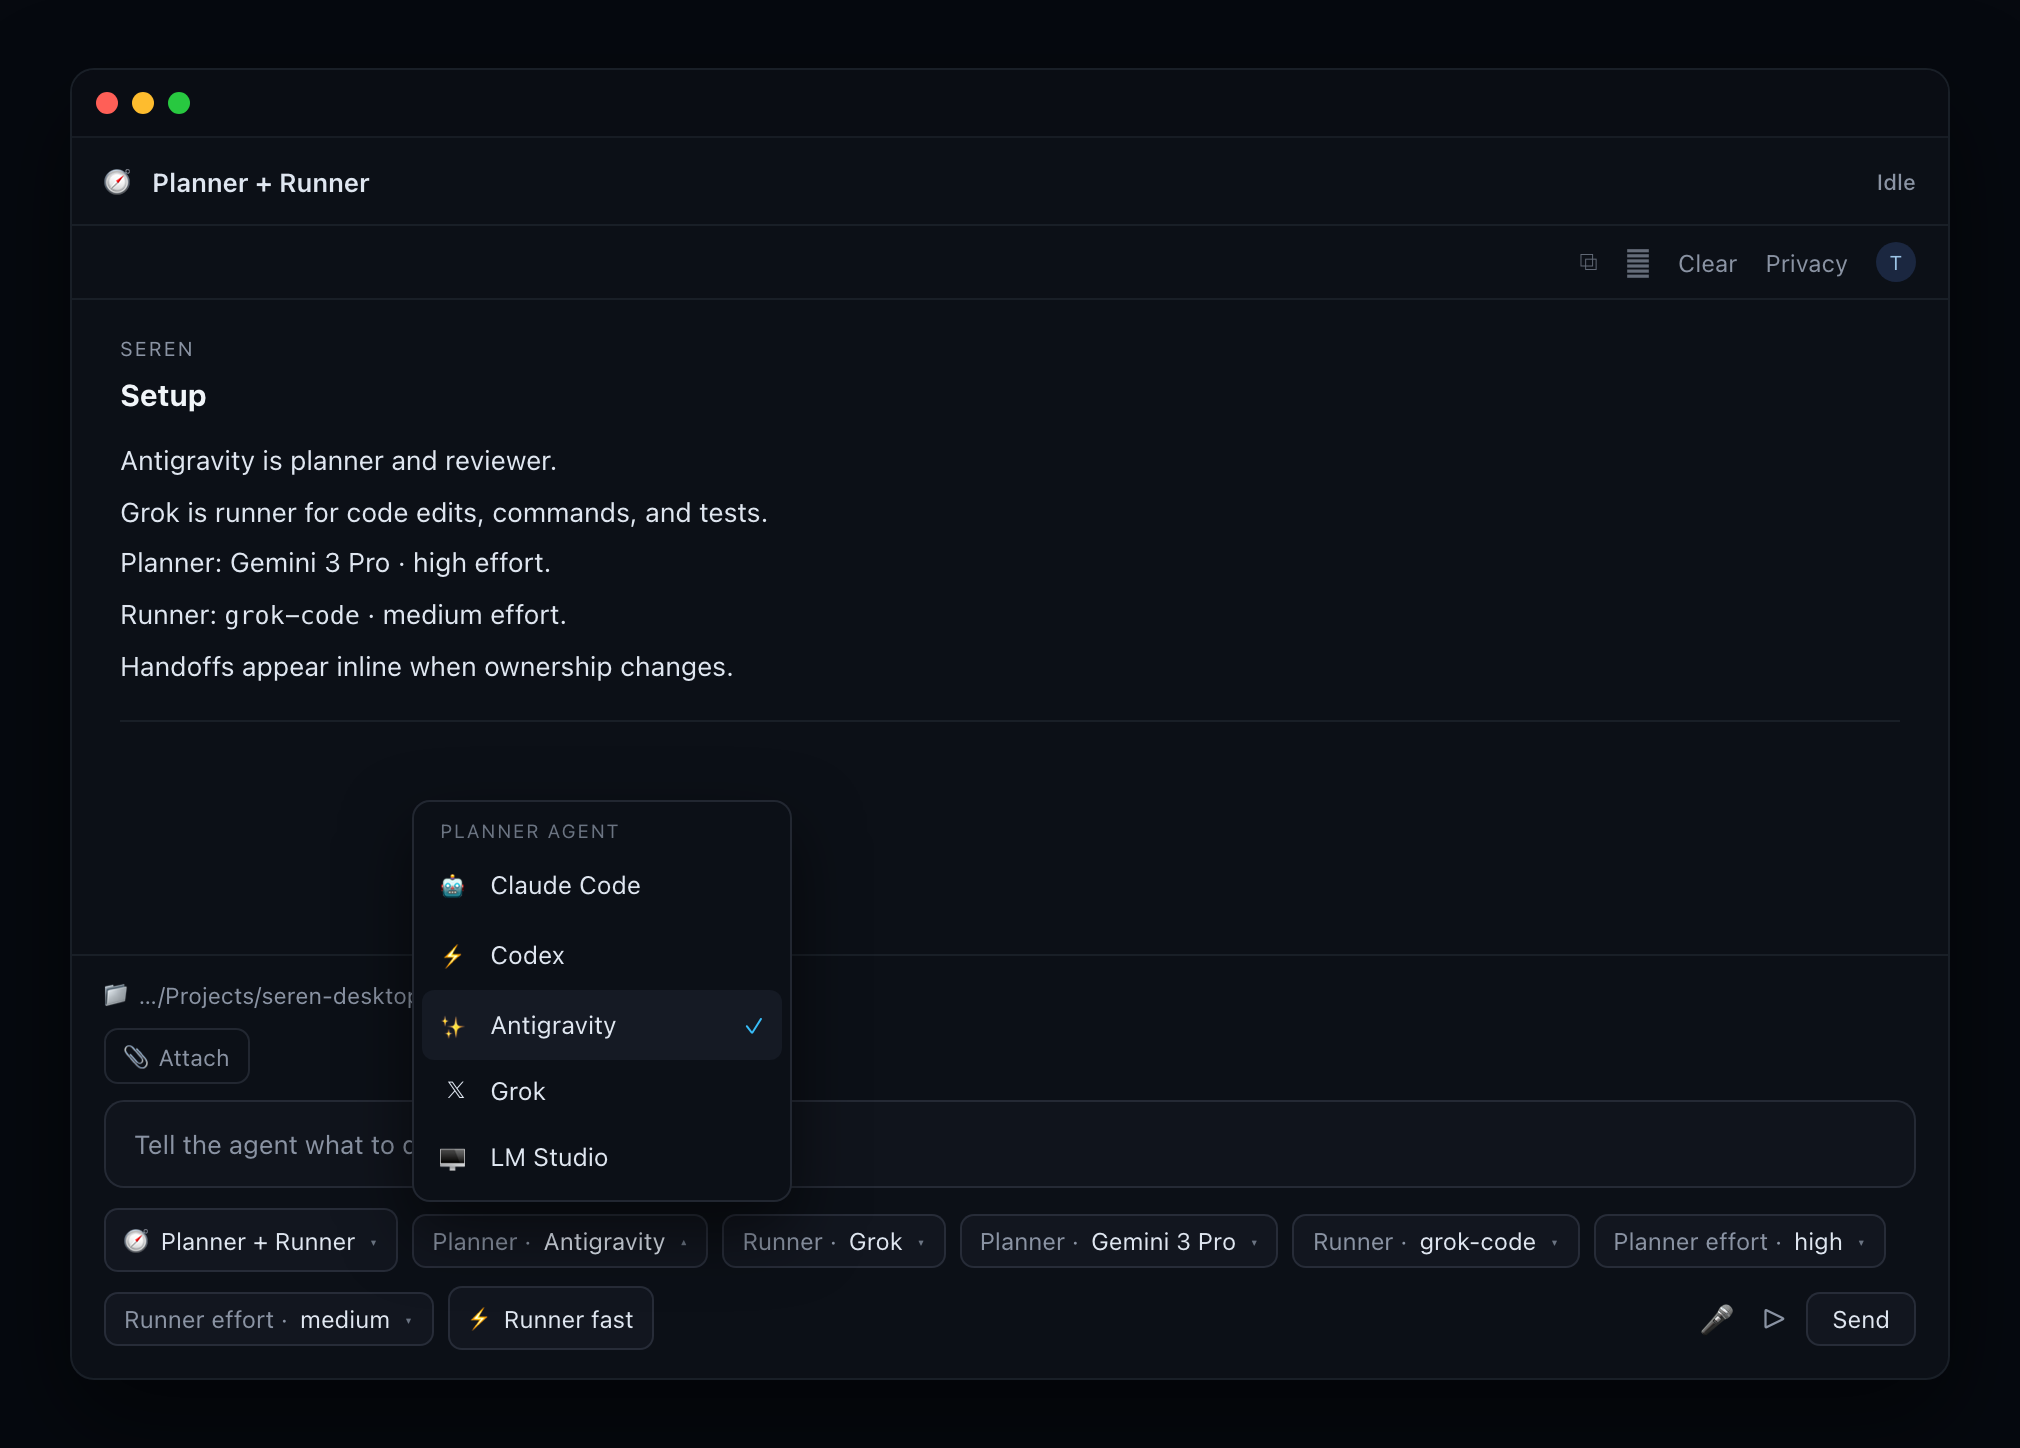
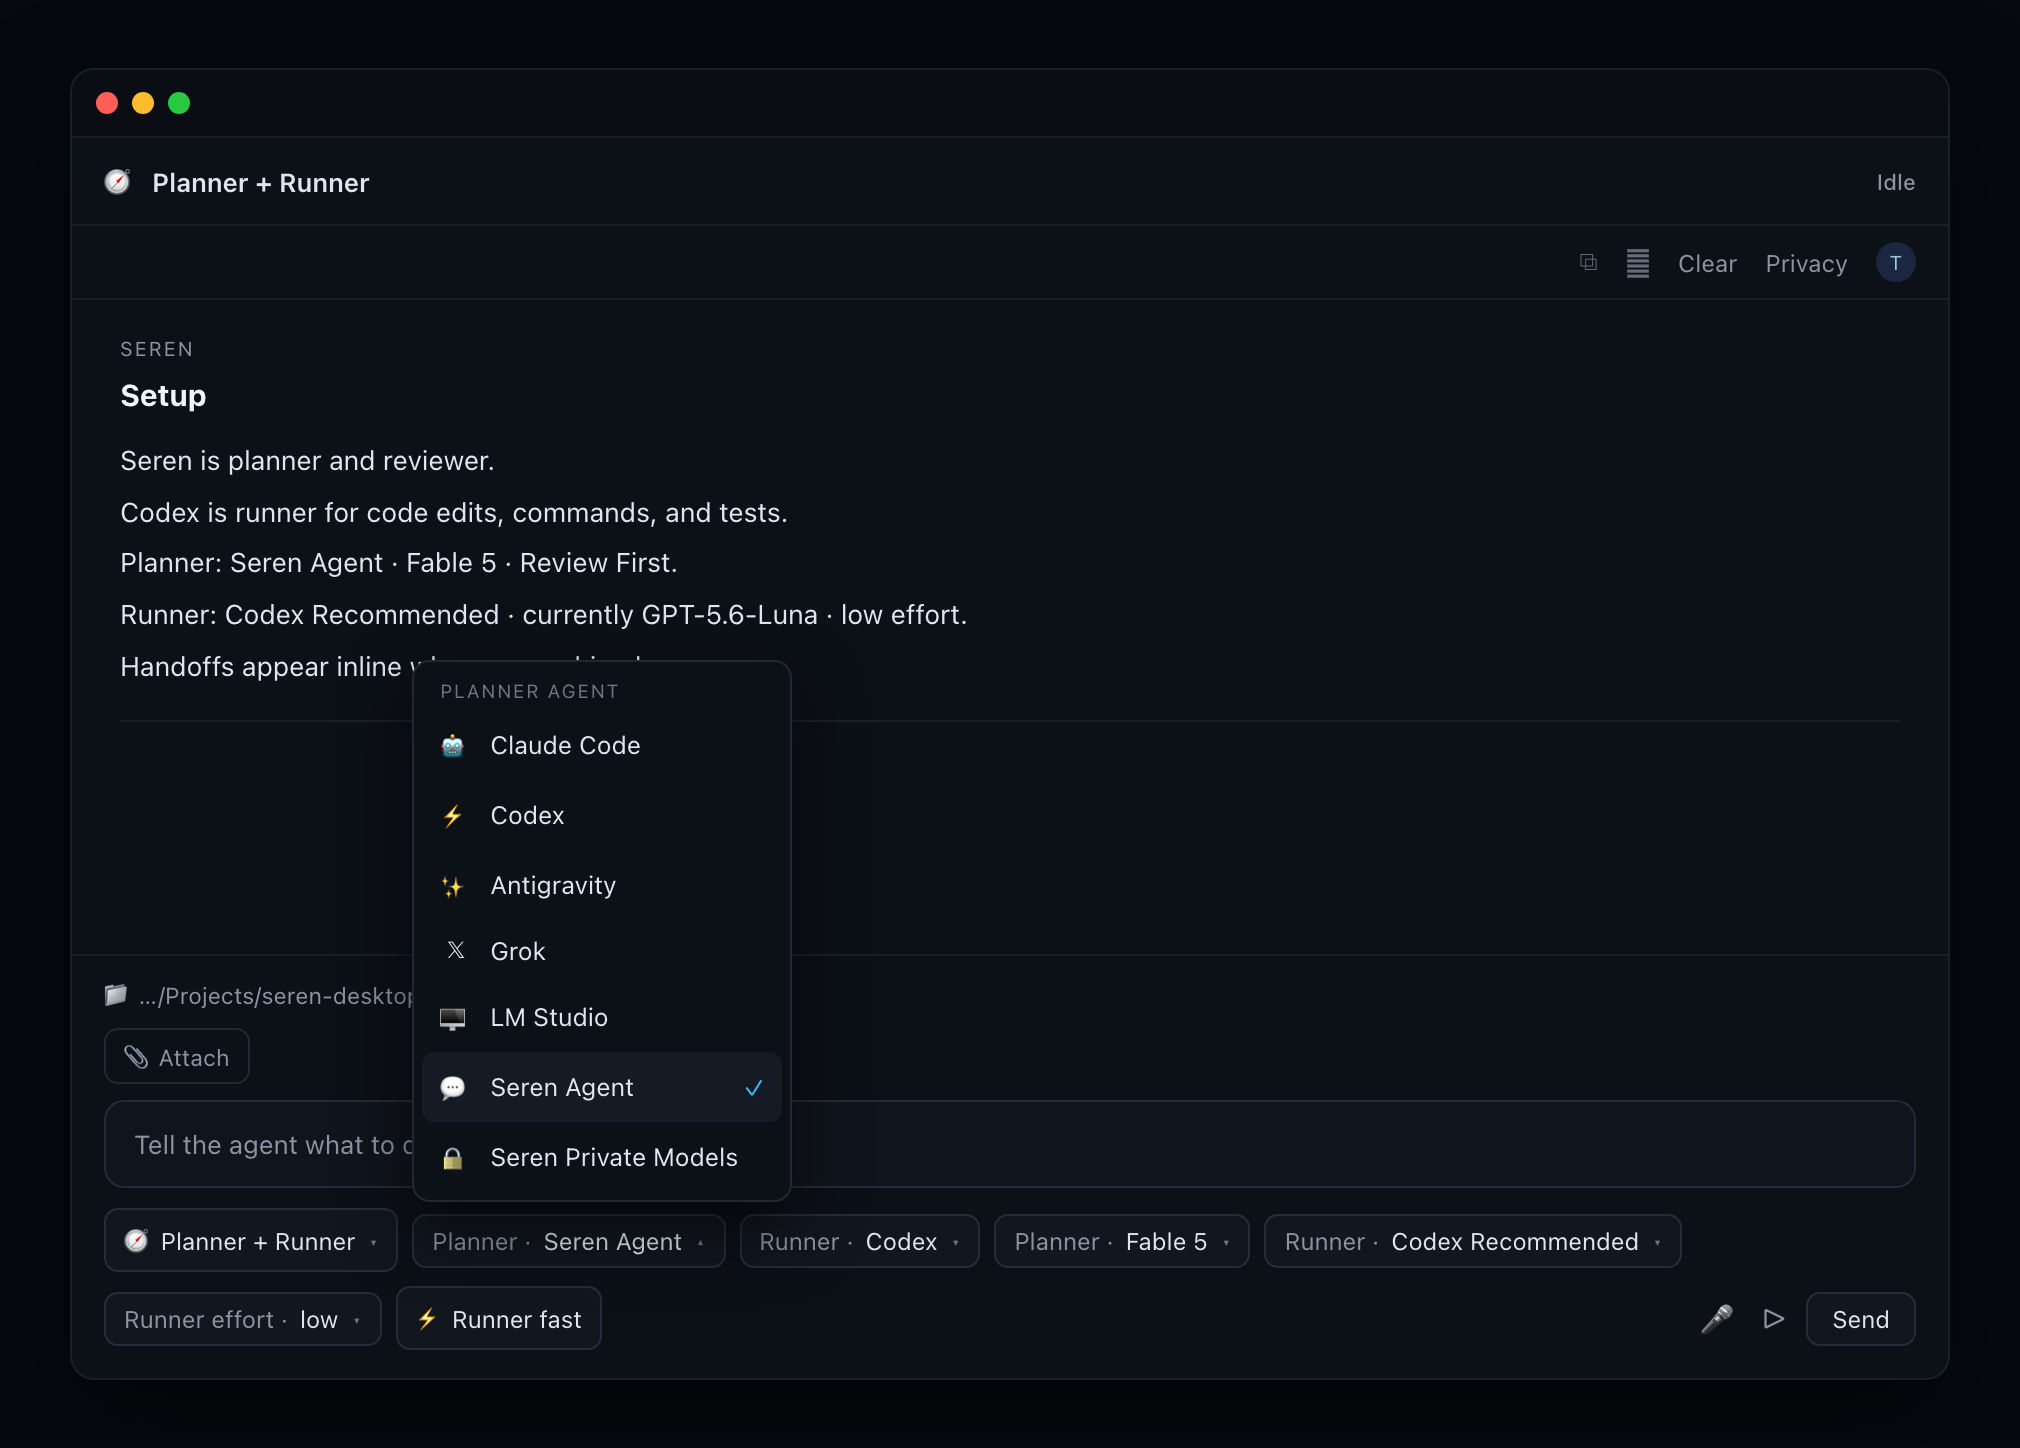
docs(mockups): add hosted Seren roles to Planner + Runner
The role-agent dropdown now enumerates all seven offered agents — the
five CLI agents plus the hosted Seren Agent (SerenModels) and Seren
Private Models — and the example pairing is Seren plans / Codex runs.

Taariq Lewis, SerenAI, Paloma, and Volume at https://serendb.com
Email: hello@serendb.com

diff --git a/mockups/planner-runner/01-chatstart.html b/mockups/planner-runner/01-chatstart.html
@@ -81,10 +81,10 @@
         <div class="seren">Seren</div>
         <div class="setup-h">Setup</div>
         <div class="setup">
-          <p>Antigravity is planner and reviewer.</p>
-          <p>Grok is runner for code edits, commands, and tests.</p>
-          <p>Planner: Gemini 3 Pro · high effort.</p>
-          <p>Runner: <span class="mono" style="font-size:12.5px">grok-code</span> · medium effort.</p>
+          <p>Seren is planner and reviewer.</p>
+          <p>Codex is runner for code edits, commands, and tests.</p>
+          <p>Planner: Seren Agent · Fable 5 · Review First.</p>
+          <p>Runner: Codex Recommended · currently GPT-5.6-Luna · low effort.</p>
           <p>Handoffs appear inline when ownership changes.</p>
         </div>
         <div class="hr"></div>
@@ -98,22 +98,23 @@
           <span class="pill">🧭 Planner + Runner <span class="car">▾</span></span>
 
           <span class="pillwrap">
-            <span class="pill"><span class="lbl">Planner ·</span> Antigravity <span class="car">▴</span></span>
+            <span class="pill"><span class="lbl">Planner ·</span> Seren Agent <span class="car">▴</span></span>
             <div class="menu">
               <div class="mhdr">Planner agent</div>
               <div class="mi"><span class="g">🤖</span>Claude Code</div>
               <div class="mi"><span class="g">⚡</span>Codex</div>
-              <div class="mi sel"><span class="g">✨</span>Antigravity<span class="ck">✓</span></div>
+              <div class="mi"><span class="g">✨</span>Antigravity</div>
               <div class="mi"><span class="g">𝕏</span>Grok</div>
               <div class="mi"><span class="g">🖥</span>LM Studio</div>
+              <div class="mi sel"><span class="g">💬</span>Seren Agent<span class="ck">✓</span></div>
+              <div class="mi"><span class="g">🔒</span>Seren Private Models</div>
             </div>
           </span>
 
-          <span class="pill"><span class="lbl">Runner ·</span> Grok <span class="car">▾</span></span>
-          <span class="pill"><span class="lbl">Planner ·</span> Gemini 3 Pro <span class="car">▾</span></span>
-          <span class="pill"><span class="lbl">Runner ·</span> grok-code <span class="car">▾</span></span>
-          <span class="pill"><span class="lbl">Planner effort ·</span> high <span class="car">▾</span></span>
-          <span class="pill"><span class="lbl">Runner effort ·</span> medium <span class="car">▾</span></span>
+          <span class="pill"><span class="lbl">Runner ·</span> Codex <span class="car">▾</span></span>
+          <span class="pill"><span class="lbl">Planner ·</span> Fable 5 <span class="car">▾</span></span>
+          <span class="pill"><span class="lbl">Runner ·</span> Codex Recommended <span class="car">▾</span></span>
+          <span class="pill"><span class="lbl">Runner effort ·</span> low <span class="car">▾</span></span>
           <span class="pill">⚡ Runner fast</span>
 
           <span class="send"><span class="mic">🎤</span><span class="mic">▷</span><span class="sendbtn">Send</span></span>

diff --git a/mockups/planner-runner/README.md b/mockups/planner-runner/README.md
@@ -14,7 +14,7 @@ code is changed by this folder.
 
 | Screen | File | Shows |
 | ------ | ---- | ----- |
-| Chat start | `01-chatstart.html` / `.png` | A running Planner + Runner thread (Antigravity plans · Grok runs). Identical layout to Claude + Codex; the Planner-agent pill dropdown is open to show any agent is selectable. |
+| Chat start | `01-chatstart.html` / `.png` | A running Planner + Runner thread (Seren Agent plans · Codex runs). Identical layout to Claude + Codex; the Planner-agent pill dropdown is open showing every offered agent — the 5 CLI agents plus Seren Agent (SerenModels) and Seren Private Models. |
 | Launcher menu | `02-launcher.html` / `.png` | `Planner + Runner` as one plain row directly below `Claude + Codex` in the "New" menu. |
 
 ## Regenerate the PNGs
